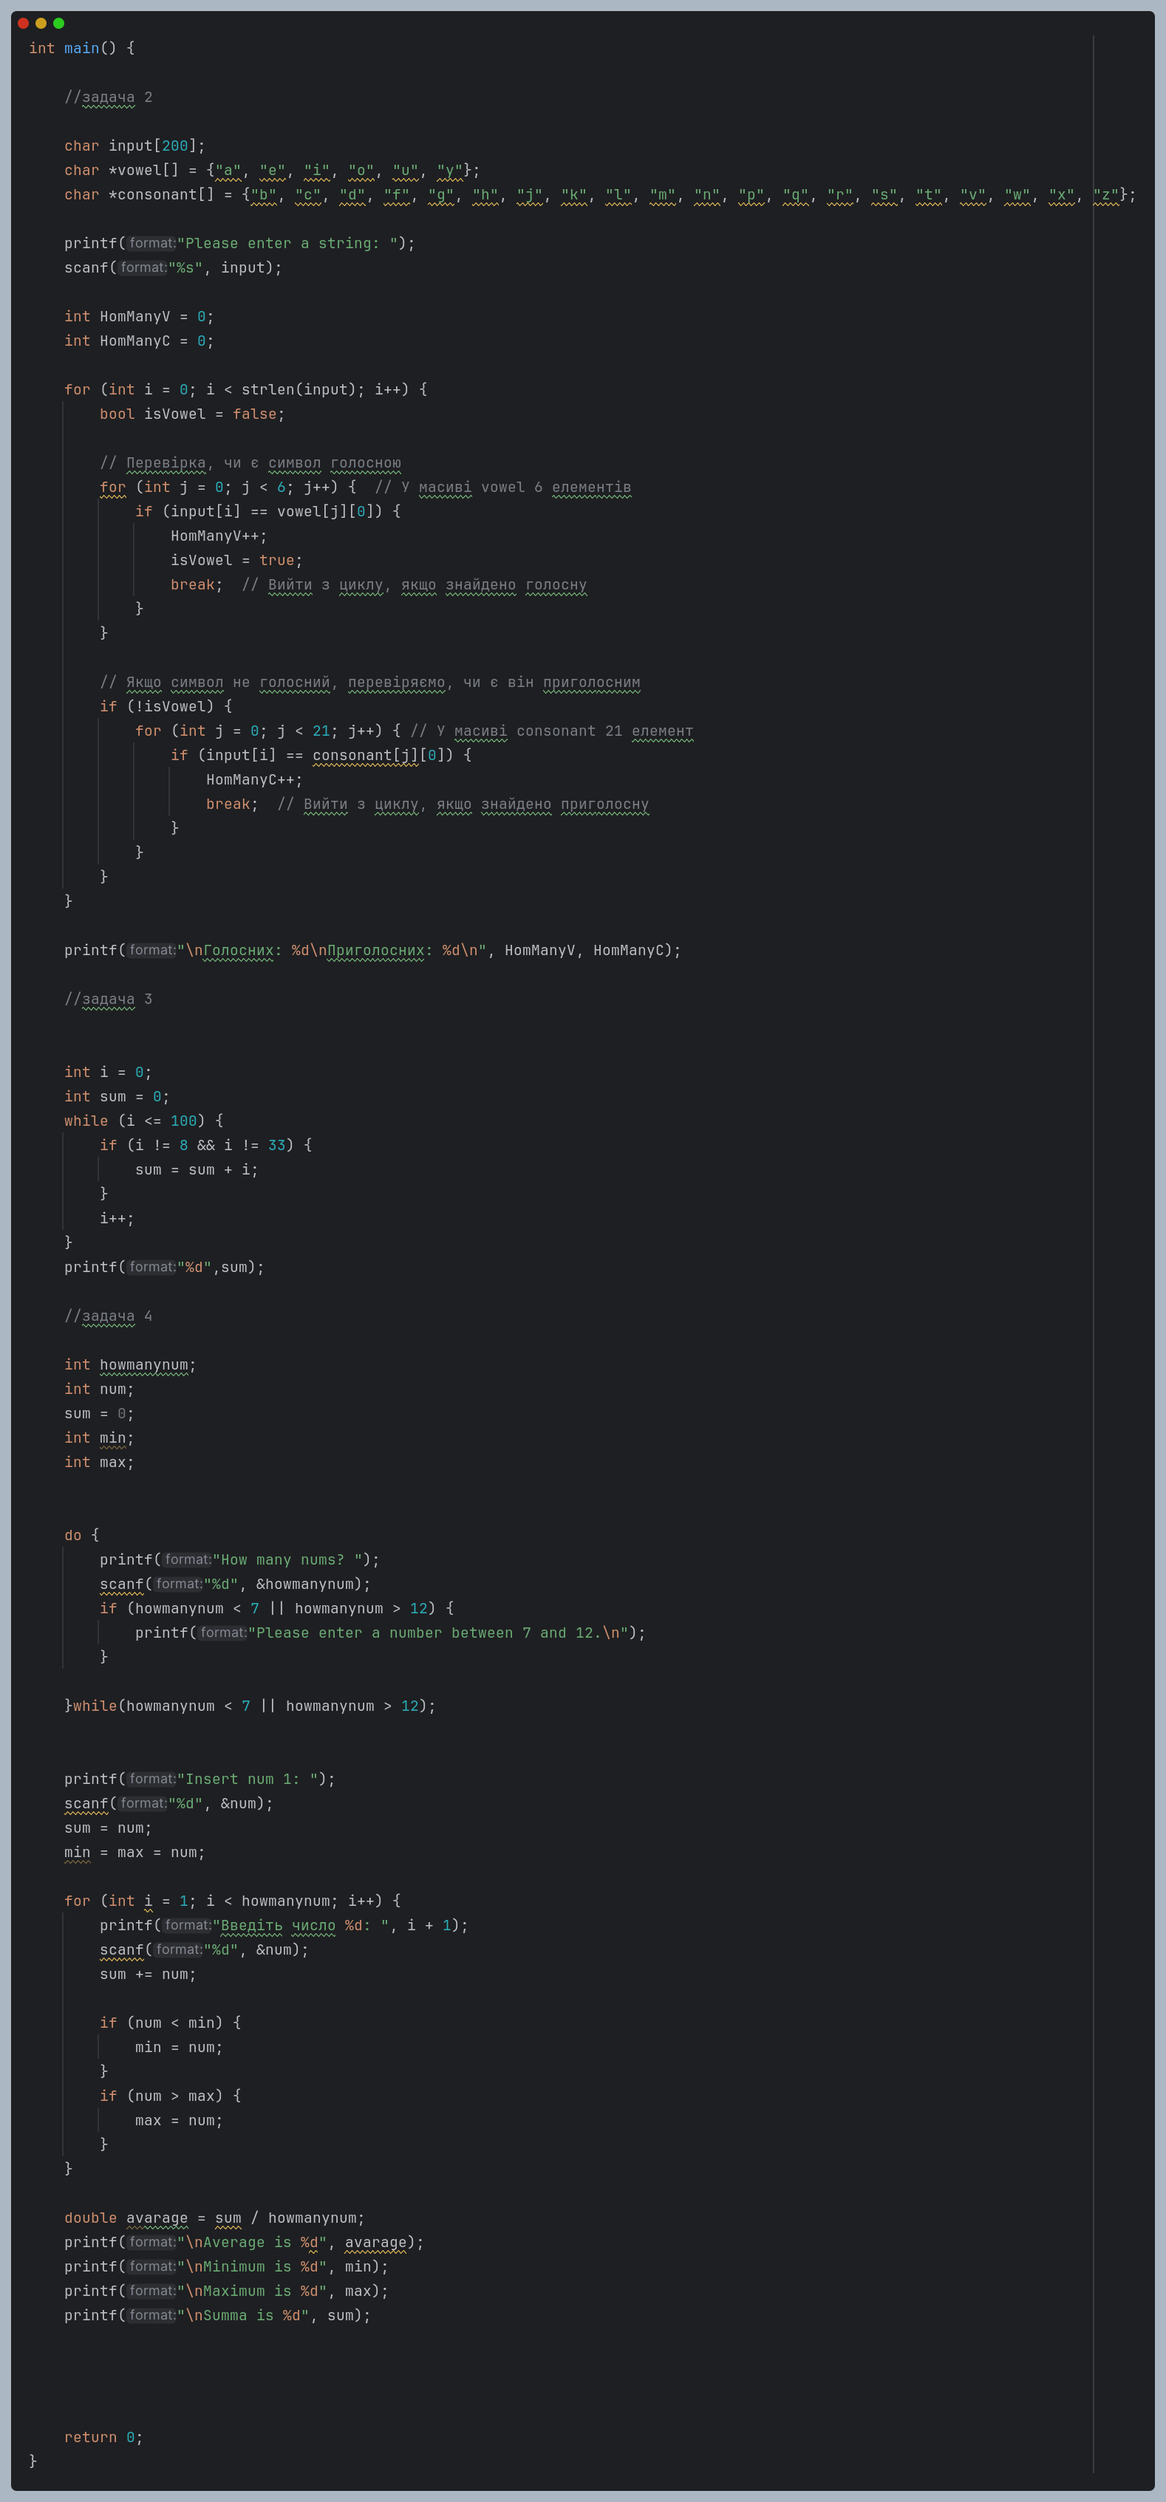
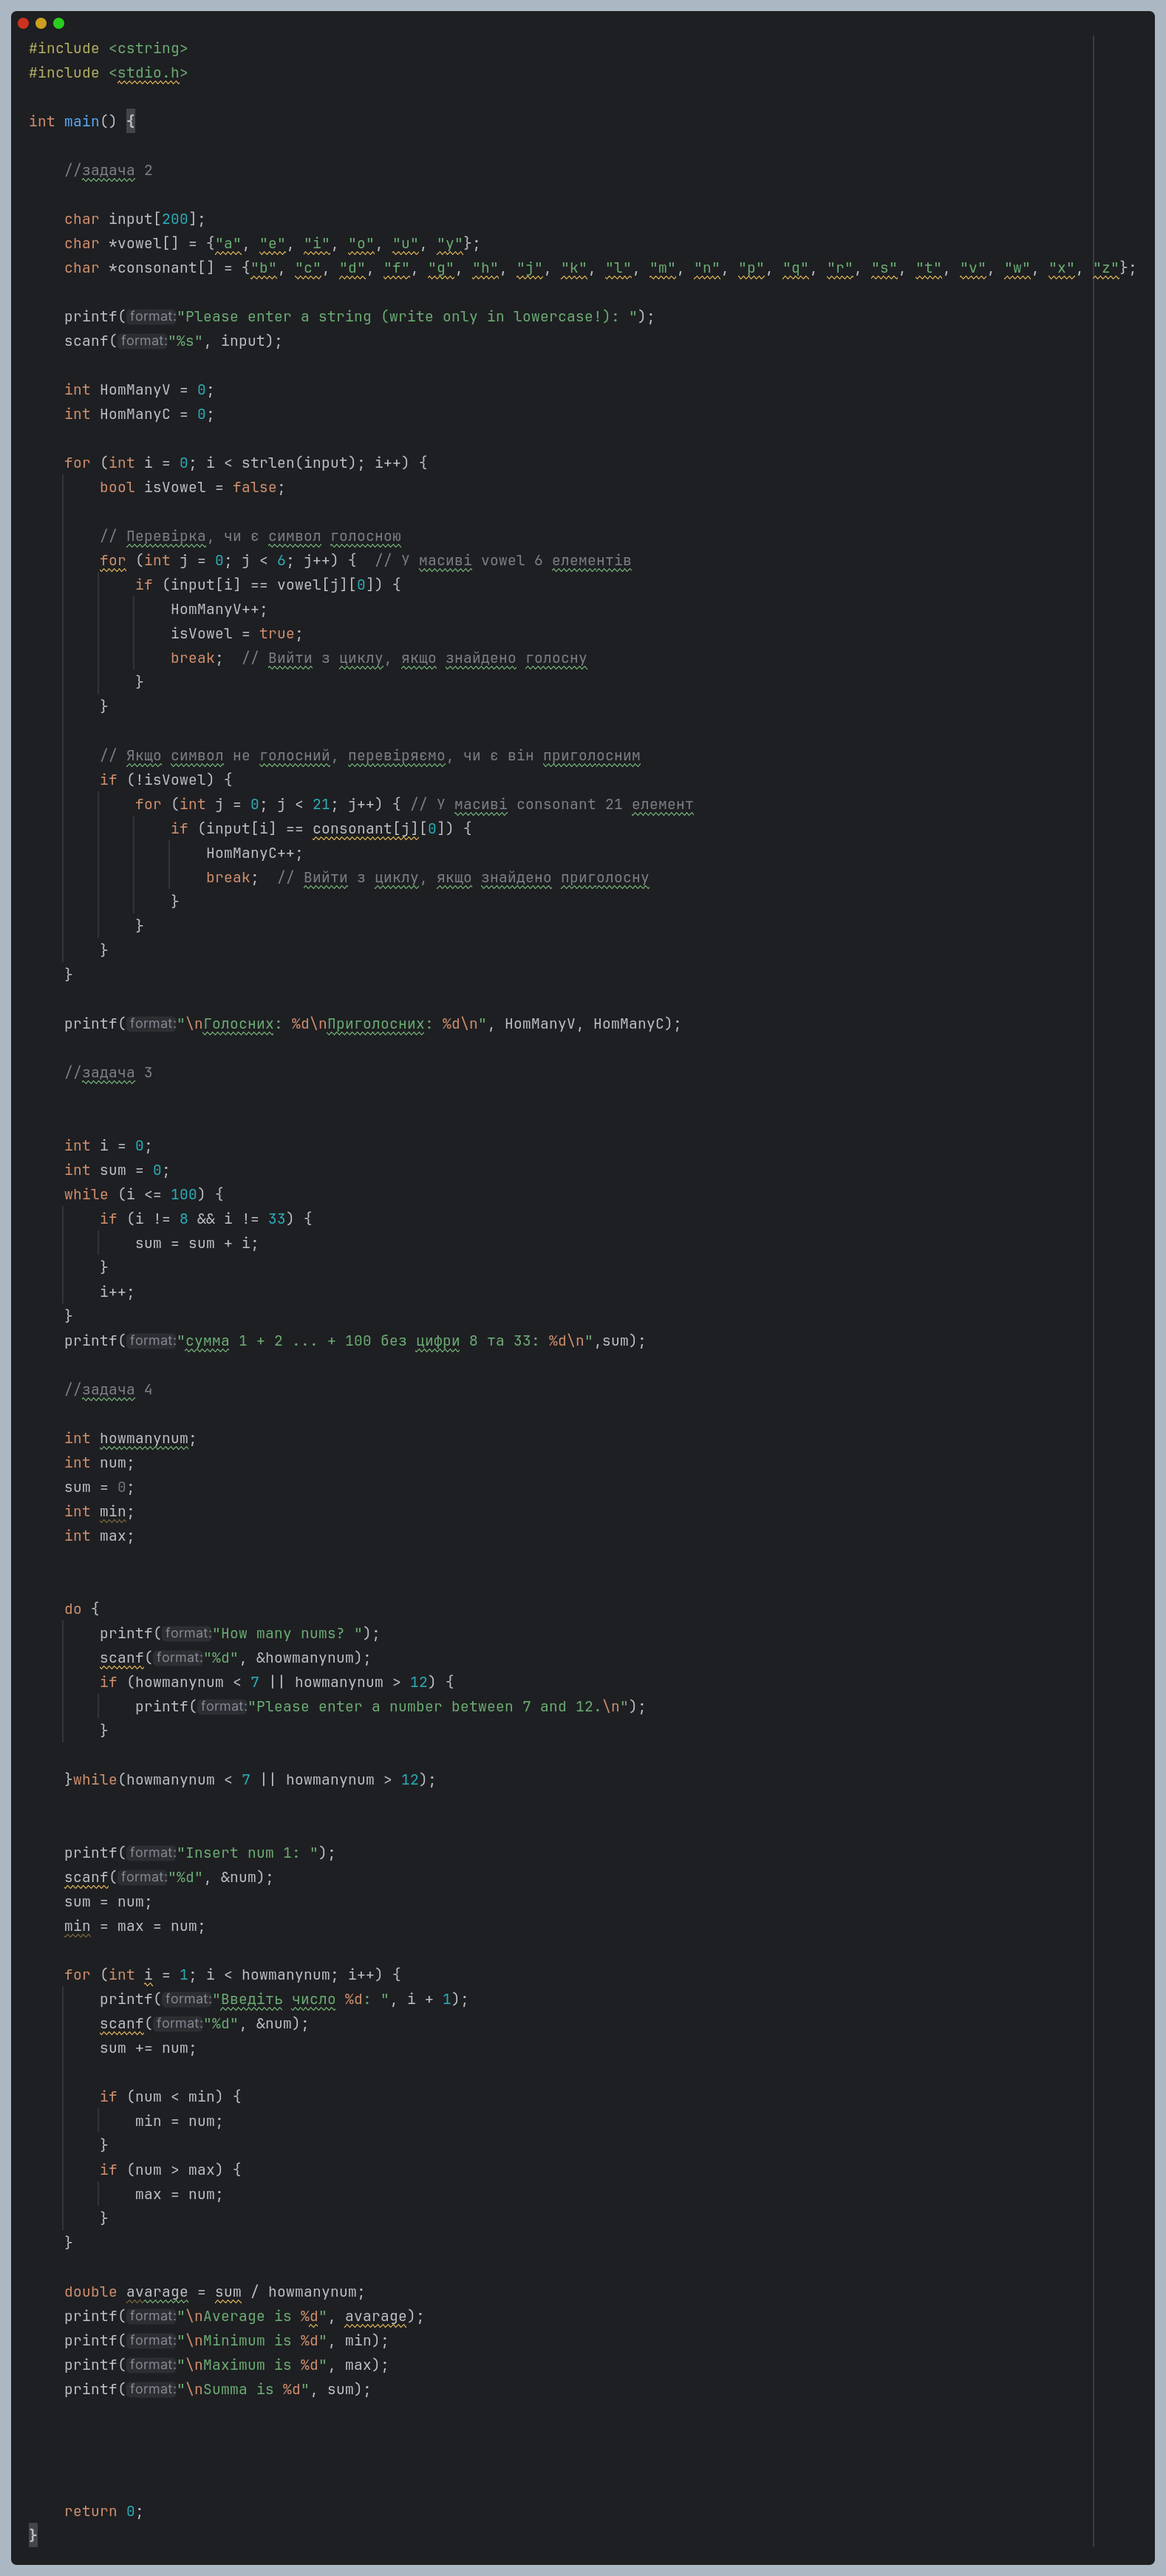
доробив 6 лабу

diff --git a/lab6/main.cpp b/lab6/main.cpp
@@ -9,7 +9,7 @@ int main() {
     char *vowel[] = {"a", "e", "i", "o", "u", "y"};
     char *consonant[] = {"b", "c", "d", "f", "g", "h", "j", "k", "l", "m", "n", "p", "q", "r", "s", "t", "v", "w", "x", "z"};
 
-    printf("Please enter a string: ");
+    printf("Please enter a string (write only in lowercase!): ");
     scanf("%s", input);
 
     int HomManyV = 0;
@@ -51,7 +51,7 @@ int main() {
         }
         i++;
     }
-    printf("%d",sum);
+    printf("сумма 1 + 2 ... + 100 без цифри 8 та 33: %d\n",sum);
 
     //задача 4
 
